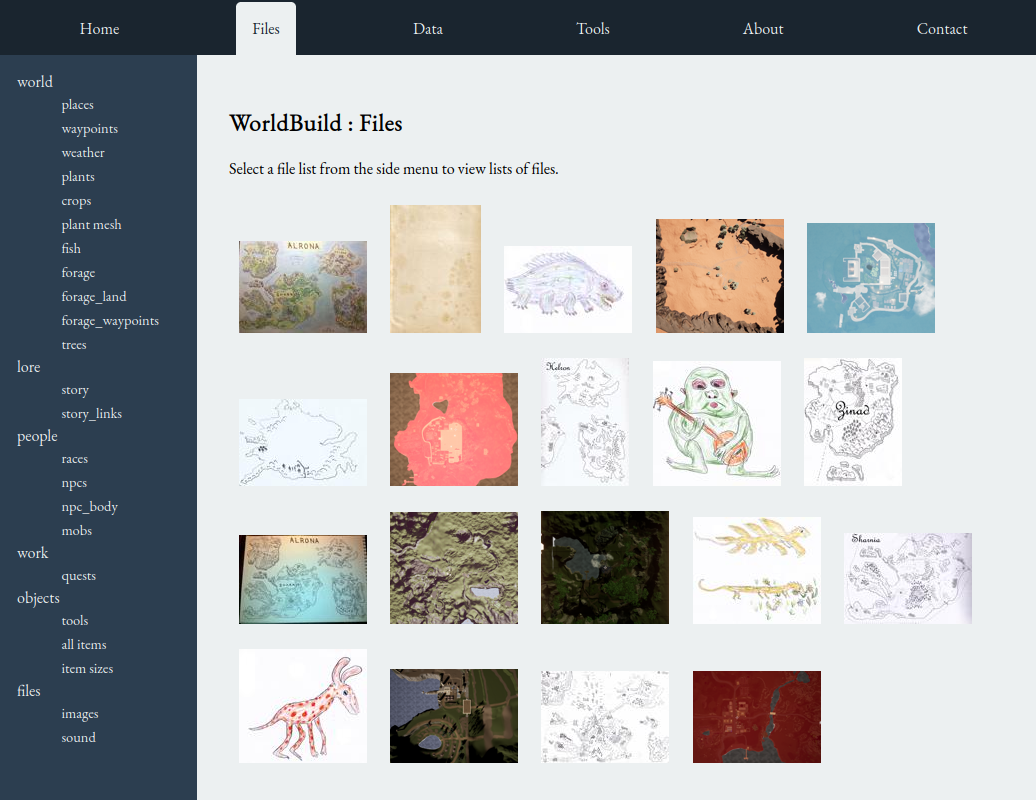
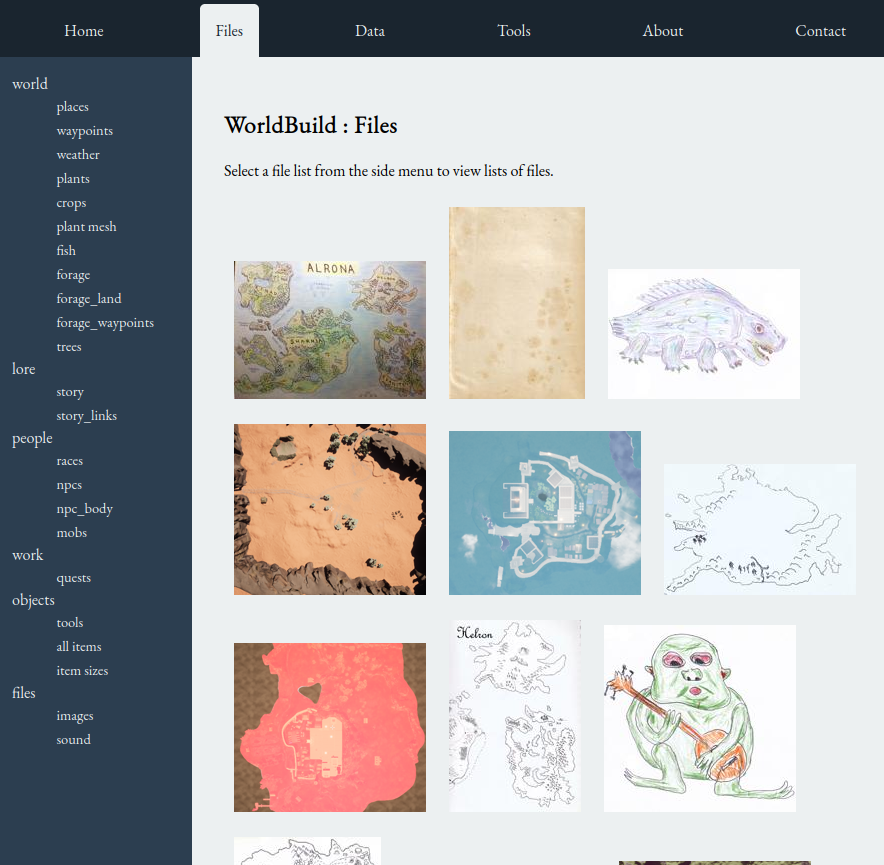
UI fixes for tools and files (images)

diff --git a/worldbuild/app/app_web.py b/worldbuild/app/app_web.py
@@ -15,9 +15,9 @@ data_folder = mod_cfg.fldr_data # '/home/duncan/dev/src/python/worldbuild/worldb
 
 db_file =  mod_cfg.db_file # os.path.join(data_folder, 'worldbuild.db')
 
[2 lines of base64/hex data omitted]
-THUMBNAIL_SIZE = (128, 128)
+IMAGE_FOLDER = mod_cfg.IMAGE_FOLDER
+THUMBNAIL_FOLDER = mod_cfg.THUMBNAIL_FOLDER
+THUMBNAIL_SIZE = mod_cfg.THUMBNAIL_SIZE
 
 
 app = Flask(__name__)
@@ -76,12 +76,90 @@ def serve_image(filename):
     return send_file(safe_join(IMAGE_FOLDER, filename))
     
 
-# ---------------------------- DATA -----------------------------
+# ---------------------------- DATA ---------------------------------
 
 
 @app.route('/data')
 def data():
     return render_template('data.html', current_menu='data')
+
+
+# ----- DATA TABLES -----------------------------
+
+
+@app.route('/tables')
+def tables():
+    conn = get_db_connection()
+    cursor = conn.execute("SELECT DISTINCT menu FROM App_menu;")
+    menus = cursor.fetchall()
+    
+    menu_dict = {}
+    for menu in menus:
+        menu_name = menu['menu']
+        cursor = conn.execute("SELECT submenu, table_name FROM App_menu WHERE menu = ?", (menu_name,))
+        submenus = cursor.fetchall()
+        menu_dict[menu_name] = submenus
+    
+    conn.close()
+    return render_template('tables_list.html', menus=menu_dict, current_menu='data')
+
+@app.route('/table/<v_table_name>')
+def show_table(v_table_name):
+    submenu = request.args.get('submenu', '')
+    conn = get_db_connection()
+    # get the list of columns we want to show in table list mode
+    #print('v_table_name = ' + v_table_name)
+    sql_meta = "SELECT menu,submenu,table_name,col_list_view FROM App_menu WHERE table_name = '" + v_table_name + "'"
+    res = mod_sql.get_data(conn, sql_meta, [])[0]   # only fetching 1 row
+
+    #print('res=' + str(res) + ' res[0]=' + str(res[0]))
+    row_view_cols = res[3]
+    #print('row_view_cols = ' + str(row_view_cols)) 
+    cols_to_show = row_view_cols.split(",")
+    
+    #print('cols_to_show = ' + str(cols_to_show))    
+    # now get the contents of the table
+    cursor = conn.execute(f"SELECT {row_view_cols} FROM {v_table_name};")
+    rows = cursor.fetchall()
+    columns = [description[0] for description in cursor.description]
+    #print('columns = ' + str(columns))
+
+    if row_view_cols == '*':
+        cols_to_render = columns
+    else:
+        cols_to_render = cols_to_show
+    
+    conn.close()
+    return render_template('table_contents.html',
+                           v_table_name=v_table_name,
+                           v_menu=res[0],
+                           v_submenu=res[1],
+                           columns=cols_to_render,
+                           rows=rows,
+                           submenu=submenu)
+
+
+
+# ----- TABLE CONTENTS -----------------------------
+
+@app.route('/row/<table_name>/<row_id>')
+def show_row_details(table_name, row_id):
+    current_menu = 'data' # request.args.get('current_menu', 'home')
+    conn = get_db_connection()
+    cursor = conn.execute(f"SELECT * FROM {table_name} WHERE id = '{row_id}';")
+    row = cursor.fetchone()
+    columns = [description[0] for description in cursor.description]
+    conn.close()
+    return render_template('row_details.html',
+                           table_name=table_name,
+                           columns=columns,
+                           row=row,
+                           current_menu=current_menu)
+
+
+
+# ---------------------------- TOOLS -----------------------------
+
 
 @app.route('/tools')
 def tools():
@@ -153,72 +231,6 @@ def contact():
 def top_menu():
     current_menu = request.args.get('current_menu', 'home')
     return render_template('top_menu.html', current_menu=current_menu)
-
-@app.route('/tables')
-def tables():
-    conn = get_db_connection()
-    cursor = conn.execute("SELECT DISTINCT menu FROM App_menu;")
-    menus = cursor.fetchall()
-    
-    menu_dict = {}
-    for menu in menus:
-        menu_name = menu['menu']
-        cursor = conn.execute("SELECT submenu, table_name FROM App_menu WHERE menu = ?", (menu_name,))
-        submenus = cursor.fetchall()
-        menu_dict[menu_name] = submenus
-    
-    conn.close()
-    return render_template('tables_list.html', menus=menu_dict, current_menu='data')
-
-@app.route('/table/<v_table_name>')
-def show_table(v_table_name):
-    submenu = request.args.get('submenu', '')
-    conn = get_db_connection()
-    # get the list of columns we want to show in table list mode
-    #print('v_table_name = ' + v_table_name)
-    sql_meta = "SELECT menu,submenu,table_name,col_list_view FROM App_menu WHERE table_name = '" + v_table_name + "'"
-    res = mod_sql.get_data(conn, sql_meta, [])[0]   # only fetching 1 row
-
-    #print('res=' + str(res) + ' res[0]=' + str(res[0]))
-    row_view_cols = res[3]
-    #print('row_view_cols = ' + str(row_view_cols)) 
-    cols_to_show = row_view_cols.split(",")
-    
-    #print('cols_to_show = ' + str(cols_to_show))    
-    # now get the contents of the table
-    cursor = conn.execute(f"SELECT {row_view_cols} FROM {v_table_name};")
-    rows = cursor.fetchall()
-    columns = [description[0] for description in cursor.description]
-    #print('columns = ' + str(columns))
-
-    if row_view_cols == '*':
-        cols_to_render = columns
-    else:
-        cols_to_render = cols_to_show
-    
-    conn.close()
-    return render_template('table_contents.html',
-                           v_table_name=v_table_name,
-                           v_menu=res[0],
-                           v_submenu=res[1],
-                           columns=cols_to_render,
-                           rows=rows,
-                           submenu=submenu)
-
-
-@app.route('/row/<table_name>/<row_id>')
-def show_row_details(table_name, row_id):
-    current_menu = 'data' # request.args.get('current_menu', 'home')
-    conn = get_db_connection()
-    cursor = conn.execute(f"SELECT * FROM {table_name} WHERE id = '{row_id}';")
-    row = cursor.fetchone()
-    columns = [description[0] for description in cursor.description]
-    conn.close()
-    return render_template('row_details.html',
-                           table_name=table_name,
-                           columns=columns,
-                           row=row,
-                           current_menu=current_menu)
 
 
 if __name__ == '__main__':

diff --git a/worldbuild/app/config_app.py b/worldbuild/app/config_app.py
@@ -13,6 +13,10 @@ fldr_tools = os.path.join(fldr_root, 'app', 'tools')
 fldr_img =  os.path.join(fldr_root, 'app', 'static', 'img')
 db_file = os.path.join(fldr_data, 'worldbuild.db')
 
[2 lines of base64/hex data omitted]
+THUMBNAIL_SIZE = (192, 192)
+
 sys.path.append(fldr_root)
 
 #sys.path.append(os.path.join(fldr_root, 'src', 'roguelike'))
